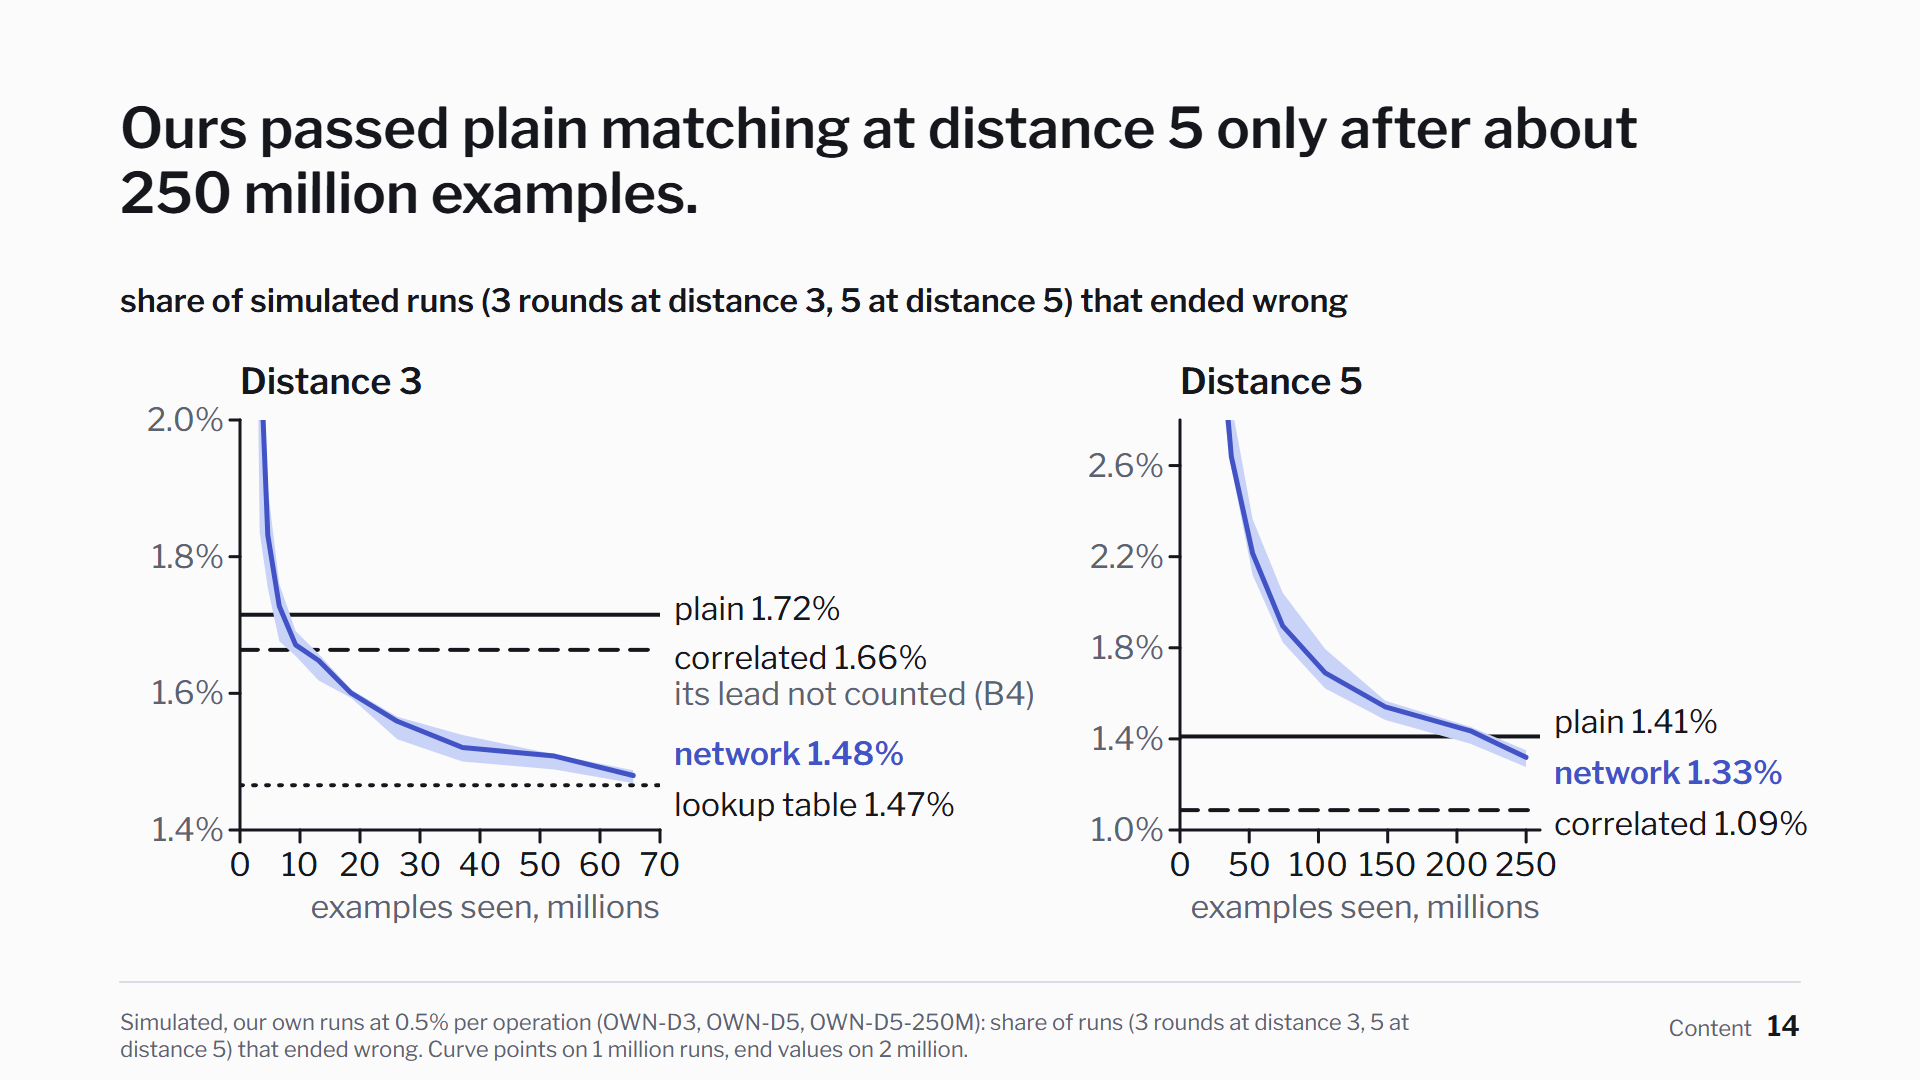
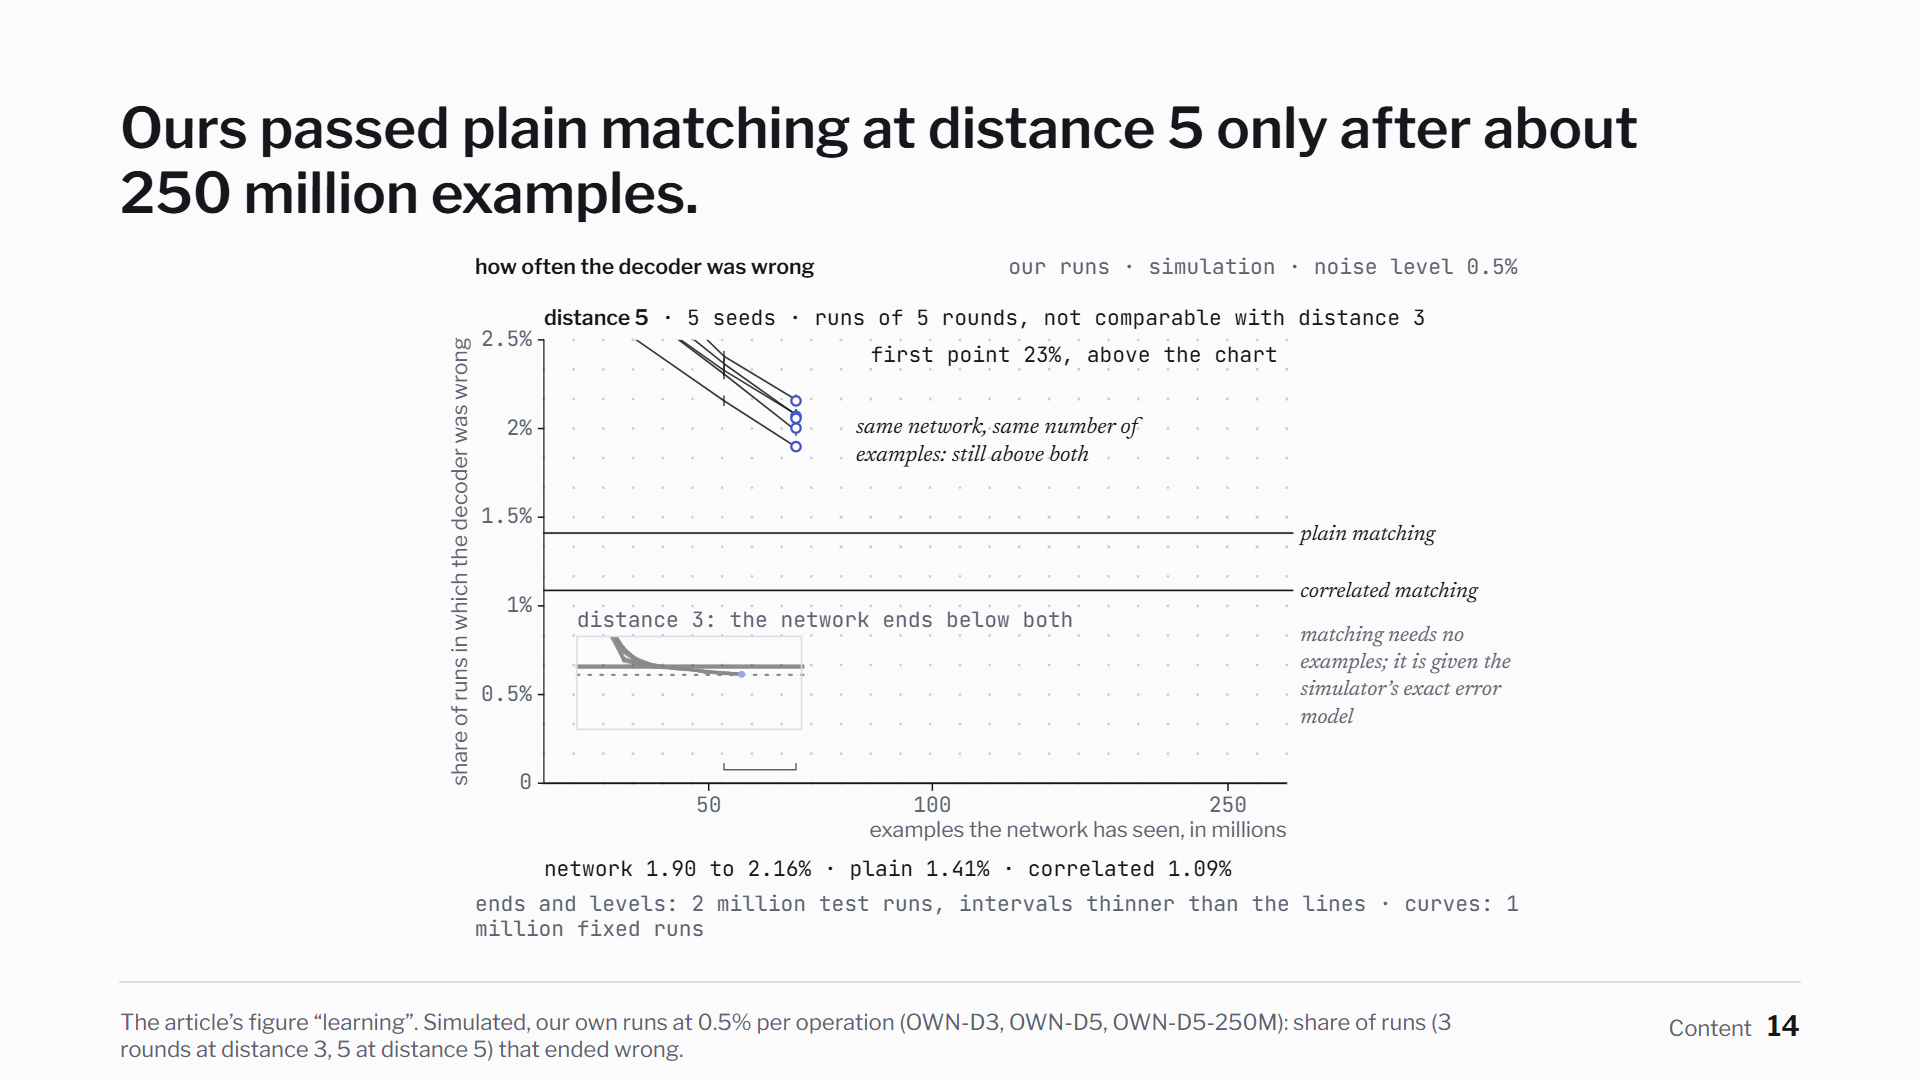
talks/quantum (WIP): the article's own figures on slides (kit articleFigure), Excalidraw strokes (rough.js, vendored); prototypes of slides 5 and 14

diff --git a/talks/quantum/slides/14-ours/slide.js b/talks/quantum/slides/14-ours/slide.js
@@ -1,74 +1,18 @@
-// Slide 14: our runs (learning.json), at a noise level of 0.5%. Two panels,
-// one per distance (their runs differ in length, so the rates are not set
-// against each other), each on a linear axis of examples in millions, so the
-// crossings sit where the room can see them. The seeds as a band from the
-// lowest to the highest seed with the median in accent; plain matching ink,
-// correlated matching dashed ink, the lookup table (distance 3 only) dotted.
-// Build 1: distance 3, and distance 5 after 66 million (axis already at 260
-// million); build 2 adds the run to about 250 million.
-import { C, L, R, svgOf, T, frame, ln, pth, h } from '../../kit.js';
-
-const pct = (v, dg = 2) => `${(v * 100).toFixed(dg)}%`;
+// Slide 14: our runs. The article's own `learning` figure at its steps 0, 1
+// and 2 (distance 3; distance 5 after 66 million; after about 250 million),
+// with one hand stroke per click at the number that click is about.
+import { C, svgOf, frame, articleFigure, inkLayer, PEN } from '../../kit.js';
+import * as learning from '../../../../articles/other-half/figures/learning.js';
 
 export default {
-  id: 'ours', n: 14, part: 'Content', builds: 2, speaker: 'C',
+  id: 'ours', n: 14, part: 'Content', builds: 3, speaker: 'B',
   title: 'Ours passed plain matching at distance 5 only after about 250 million examples.',
-  clicks: ['distance 3; distance 5 after 66 million', 'distance 5, about 250 million'],
+  clicks: ['distance 3', 'distance 5 after 66 million', 'distance 5 after about 250 million'],
   draw(page, b, data) {
     const svg = svgOf(page);
-    const [p3, p66, p250] = data.learning.panels;
-    frame(svg, {
-      title: this.title, n: this.n, part: this.part,
-      source: 'Simulated, our own runs at 0.5% per operation (OWN-D3, OWN-D5, OWN-D5-250M): share of runs (3 rounds at distance 3, 5 at distance 5) that ended wrong. Curve points on 1 million runs, end values on 2 million.',
-    });
-    T(svg, L, 312, 'share of simulated runs (3 rounds at distance 3, 5 at distance 5) that ended wrong', { size: 32, weight: 600 });
-    const panel = (x0, x1, xmax, step, ylo, yhi, head) => {
-      const y0 = 420, y1 = 830;
-      const X = (n) => x0 + (n / xmax) * (x1 - x0);
-      const Y = (r) => y1 - ((r - ylo) / (yhi - ylo)) * (y1 - y0);
-      ln(svg, x0, y0, x0, y1); ln(svg, x0, y1, x1, y1);
-      T(svg, x0, y0 - 26, head, { size: 36, weight: 600 });
-      for (let v = 0; v <= xmax + 1; v += step) { ln(svg, X(v), y1, X(v), y1 + 12); T(svg, X(v), y1 + 46, String(v / 1e6), { size: 32, anchor: 'middle', fill: C.ink }); }
-      T(svg, x1, y1 + 88, 'examples seen, millions', { size: 32, anchor: 'end', fill: C.muted });
-      for (let r = ylo; r <= yhi + 1e-9; r += (yhi - ylo > 0.01 ? 0.004 : 0.002)) { ln(svg, x0 - 10, Y(r), x0, Y(r)); T(svg, x0 - 16, Y(r) + 11, pct(r, 1), { size: 32, anchor: 'end', fill: C.muted }); }
-      const clipId = `c${x0}`;
-      const cp = h('clipPath', { id: clipId }, svg); h('rect', { x: x0, y: y0, width: x1 - x0, height: y1 - y0 }, cp);
-      const gc = h('g', { 'clip-path': `url(#${clipId})` }, svg);
-      return { X, Y, gc, x0, x1, y0, y1 };
-    };
-    const level = (P, r, dash) => ln(P.gc, P.x0, P.Y(r), P.x1, P.Y(r), { stroke: C.ink, 'stroke-width': 4, 'stroke-dasharray': dash || null });
-    const band = (P, pd) => {
-      const xs = pd.curves[0].points.map((p) => p.training_shots);
-      const at = (i) => pd.curves.map((c) => c.points[i]?.rate).filter((v) => v != null).sort((a, z) => a - z);
-      const lo = xs.map((x, i) => [P.X(x), P.Y(at(i)[0])]), hi = xs.map((x, i) => [P.X(x), P.Y(at(i)[at(i).length - 1])]);
-      const med = xs.map((x, i) => { const v = at(i); return [P.X(x), P.Y(v[Math.floor(v.length / 2)])]; });
-      pth(P.gc, `M${hi.map((q) => q.join(' ')).join('L')}L${lo.reverse().map((q) => q.join(' ')).join('L')}Z`, { fill: C.field, stroke: 'none' });
-      pth(P.gc, `M${med.map((q) => q.join(' ')).join('L')}`, { stroke: C.accent, 'stroke-width': 5 });
-      return med[med.length - 1];
-    };
-    // each line named at its right end, outside the plot, so no label crosses a curve
-    const tag = (P, r, str, o = {}) => T(svg, P.x1 + 14, P.Y(r) + 11 + (o.dy || 0), str, { size: 32, ...o });
-    // left: distance 3, 0 to 70 million
-    const A = panel(L + 120, 660, 70e6, 10e6, 0.014, 0.020, 'Distance 3');
-    level(A, p3.levels.plain.rate); level(A, p3.levels.correlated.rate, '18 12'); level(A, p3.levels.table.rate, '3 10');
-    band(A, p3);
-    tag(A, p3.levels.plain.rate, `plain ${pct(p3.levels.plain.rate)}`, { dy: -6 });
-    tag(A, p3.levels.correlated.rate, `correlated ${pct(p3.levels.correlated.rate)}`, { dy: 8 });
-    tag(A, p3.levels.correlated.rate, 'its lead not counted (B4)', { dy: 44, fill: C.muted });
-    tag(A, p3.final_network.mean, `network ${pct(p3.final_network.mean)}`, { dy: -22, weight: 600, fill: C.accent });
-    tag(A, p3.levels.table.rate, `lookup table ${pct(p3.levels.table.rate)}`, { dy: 20 });
-    // right: distance 5, 0 to 260 million, fixed from the first build
-    const B = panel(1180, 1540, 260e6, 50e6, 0.010, 0.028, 'Distance 5');
-    level(B, p66.levels.plain.rate); level(B, p66.levels.correlated.rate, '18 12');
-    tag(B, p66.levels.plain.rate, `plain ${pct(p66.levels.plain.rate)}`, { dy: -14 });
-    tag(B, p66.levels.correlated.rate, `correlated ${pct(p66.levels.correlated.rate)}`, { dy: 14 });
-    if (b === 0) {
-      const [ex, ey] = band(B, p66);
-      T(svg, ex + 24, ey - 40, 'after 66 million:', { size: 32, weight: 600, fill: C.accent });
-      T(svg, ex + 24, ey, 'behind in all five seeds', { size: 32, weight: 600, fill: C.accent });
-    } else {
-      band(B, p250);
-      tag(B, p250.final_network.mean, `network ${pct(p250.final_network.mean)}`, { dy: 18, weight: 600, fill: C.accent });
-    }
+    frame(svg, { title: this.title, n: this.n, part: this.part, source: 'The article’s figure “learning”. Simulated, our own runs at 0.5% per operation (OWN-D3, OWN-D5, OWN-D5-250M): share of runs (3 rounds at distance 3, 5 at distance 5) that ended wrong.' });
+    articleFigure(page, learning, b, { x: 330, y: 250, w: 1320 }, data.learning, { textPx: 26 });
+    const ink = inkLayer(page);
+    if (b === 2) ['only after', 'about 250', 'million'].forEach((s, i) => ink.note(120, 560 + i * 46, s, { color: PEN.red, size: 38 }));
   },
 };

diff --git a/talks/quantum/kit.js b/talks/quantum/kit.js
@@ -127,3 +127,68 @@ export function backup(svg, s, o = {}) {
   }
   return y;
 }
+
+// ---------------------------------------------------------------------------
+// The article's own figures on a slide (his rule of 23 November: the deck's
+// visuals must be the article's, which he approved). A figure module from
+// articles/other-half/figures is mounted into a box on the page and set to
+// the end of one of its steps; reduced motion, so nothing idles.
+// Returns the box and the scale from the figure's own units to the page, so
+// hand strokes can be laid over exact points of the figure.
+const FIG_CSS = { '--ink': C.ink, '--paper': C.paper, '--muted': C.muted, '--hairline': C.hair, '--accent': C.accent, '--field': C.field };
+export function articleFigure(page, mod, step, box, data, o = {}) {
+  const layout = o.layout || 'wide';
+  // Mounted at a narrow width and scaled up: the figure's own lettering floor
+  // (lib/fig.js, 11.5 px on screen, 9 on paper) then lands at about 32 px on
+  // the slide, the deck's floor, while the drawing keeps the article's look.
+  const paper = document.documentElement.classList.contains('is-print');
+  const k = (o.textPx || 32) / (paper ? 9 : 11.5);
+  const el = document.createElement('div');
+  el.className = 'article-figure';
+  Object.assign(el.style, { position: 'absolute', left: `${box.x}px`, top: `${box.y}px`, width: `${box.w / k}px`, transform: `scale(${k})`, transformOrigin: '0 0' });
+  page.appendChild(el);
+  const h = mod.default(el, { layout, print: false, reduced: true, data, css: (n) => FIG_CSS[n] || '', where: o.where || 'scene' });
+  if (h && h.set) h.set(step, 1);
+  const vb = el.querySelector('svg').viewBox.baseVal;
+  // fit the height too: a tall figure is scaled down (its lettering with it)
+  const maxH = o.maxH || 960 - box.y, fullH = box.w * (vb.height / vb.width);
+  if (fullH > maxH) {
+    const f = maxH / fullH, w2 = box.w * f;
+    el.style.transform = `scale(${k * f})`;
+    el.style.left = `${box.x + (box.w - w2) / 2}px`;
+    box = { ...box, x: box.x + (box.w - w2) / 2, w: w2 };
+  }
+  return { el, k: box.w / vb.width, x: box.x, y: box.y, h: box.w * (vb.height / vb.width), at: (fx, fy) => [box.x + fx * (box.w / vb.width), box.y + fy * (box.w / vb.width)] };
+}
+
+// ---------------------------------------------------------------------------
+// Hand strokes, as Excalidraw draws them (rough.js, the library Excalidraw
+// uses): an ink layer above everything else on the page. Colours from
+// Excalidraw's own stroke palette where a mark needs one.
+import rough from '../../lib/vendor/rough.esm.js';
+export const PEN = { ink: '#1e1e1e', red: '#e03131', green: '#2f9e44', blue: '#1971c2', orange: '#f08c00' };
+export function inkLayer(page) {
+  const svg = h('svg', { viewBox: '0 0 1920 1080', width: 1920, height: 1080, class: 'ink' });
+  Object.assign(svg.style, { position: 'absolute', left: 0, top: 0, pointerEvents: 'none' });
+  page.appendChild(svg);
+  const rc = rough.svg(svg);
+  const base = (o) => ({ roughness: 1.6, bowing: 1.2, strokeWidth: 3, stroke: PEN.ink, seed: o.seed || 7, ...o });
+  const api = {
+    svg,
+    line: (x1, y1, x2, y2, o = {}) => svg.appendChild(rc.line(x1, y1, x2, y2, base(o))),
+    curve: (pts, o = {}) => svg.appendChild(rc.curve(pts, base(o))),
+    ellipse: (cx, cy, w, hh, o = {}) => svg.appendChild(rc.ellipse(cx, cy, w, hh, base(o))),
+    rect: (x, y, w, hh, o = {}) => svg.appendChild(rc.rectangle(x, y, w, hh, base(o))),
+    // an arrow: a curved shaft through a middle point and an open two-stroke head
+    arrow(pts, o = {}) {
+      const shaft = pts.length > 2 ? rc.curve(pts, base(o)) : rc.line(pts[0][0], pts[0][1], pts[1][0], pts[1][1], base(o));
+      svg.appendChild(shaft);
+      const [ax, ay] = pts[pts.length - 2], [bx, by] = pts[pts.length - 1];
+      const a = Math.atan2(by - ay, bx - ax), L0 = o.head || 30, sp = 0.45;
+      [a + Math.PI - sp, a + Math.PI + sp].forEach((t, i) => svg.appendChild(rc.line(bx, by, bx + L0 * Math.cos(t), by + L0 * Math.sin(t), base({ ...o, seed: (o.seed || 7) + i + 1 }))));
+    },
+    // a handwritten note in Virgil, Excalidraw's own face
+    note: (x, y, s, o = {}) => T(svg, x, y, s, { family: 'virgil', size: 34, fill: o.color || PEN.ink, ...o }),
+  };
+  return api;
+}

diff --git a/talks/quantum/slides/05-checks/slide.js b/talks/quantum/slides/05-checks/slide.js
@@ -1,7 +1,8 @@
-// Slide 5: what a check reports. The smallest grid (lattice.json) at slide
-// size; one flip fires the two flip-checks beside it; a line of two fires only
-// its upper end, the lower end meets the edge (lattice.json "walk").
-import { C, svgOf, T, frame, slideGrid, errMark, rc, dot, h } from '../../kit.js';
+// Slide 5: what a check reports. The article's own `lattice` figure (the
+// version he approved), at its steps 0, 1 and 2, with hand strokes on top
+// that point at what each click adds.
+import { C, L, svgOf, T, frame, articleFigure, inkLayer, PEN } from '../../kit.js';
+import * as lattice from '../../../../articles/other-half/figures/lattice.js';
 
 export default {
   id: 'checks', n: 5, part: 'Preliminaries', builds: 3, speaker: 'A',
@@ -9,36 +10,15 @@ export default {
   clicks: ['the grid and its two kinds of check', 'one flip: two checks fire', 'a line of two: only its end fires'],
   draw(page, b, data) {
     const svg = svgOf(page);
-    const d = data.lattice;
-    frame(svg, {
-      title: this.title, n: this.n, part: this.part,
-      source: 'Distance 3, one round, checks assumed right. Constructed by us (articles/other-half/data/lattice.json).',
-    });
-    const pitch = 150, cx = 560, cy = 630;
-    const G = slideGrid(svg, { checks: d.checks, d: d.distance, cx, cy, pitch, qr: 30 });
-    const step = b === 0 ? null : d.walk[b - 1];
-    if (step) {
-      step.fired.forEach((id) => G.tiles[id].setFired(1));
-      Object.entries(step.errors).forEach(([q, letter]) => { const [x, y] = G.pos(Number(q)); errMark(G.gE, x, y, 30, letter); });
-    }
-    // the key, once, to the right
-    const kx = 1060;
-    const sw = (y, flips) => h('rect', { x: kx, y: y - 34, width: 52, height: 52, fill: flips ? C.ink : 'none', 'fill-opacity': flips ? 0.16 : null, stroke: flips ? C.ink : C.muted, 'stroke-width': 3 }, svg);
-    sw(360, true); T(svg, kx + 76, 360, 'tinted: asks about flips', { size: 32 });
-    sw(440, false); T(svg, kx + 76, 440, 'open: asks about phase errors', { size: 32 });
-    rc(svg, kx, 486, 52, 52, { fill: C.field, stroke: C.accent }); dot(svg, kx + 26, 512, 13, { fill: C.accent });
-    T(svg, kx + 76, 520, 'fired (large blue dot): the answer changed', { size: 32, weight: 600, fill: C.accent });
-    T(svg, kx, 610, 'X a flip, Z a phase error, Y both', { size: 32 });
-    if (b === 1) {
-      T(svg, kx, 720, 'One flip in the middle:', { size: 36, weight: 600 });
-      T(svg, kx, 766, 'the two flip-checks beside it fire.', { size: 32 });
-      T(svg, kx, 806, 'The flip itself is never seen.', { size: 32 });
-    }
-    if (b === 2) {
-      T(svg, kx, 720, 'A line of two flips:', { size: 36, weight: 600 });
-      T(svg, kx, 766, 'the check between them sees two, an even', { size: 32 });
-      T(svg, kx, 806, 'number, and stays quiet. Only the upper', { size: 32 });
-      T(svg, kx, 846, 'end fires; the lower end meets the edge.', { size: 32 });
-    }
+    frame(svg, { title: this.title, n: this.n, part: this.part, source: 'The article’s figure “lattice”, steps 1 to 3. Distance 3, one round, checks assumed right. Constructed by us (lattice.json).' });
+    articleFigure(page, lattice, b, { x: 150, y: 250, w: 1180 }, data.lattice, { textPx: 26 });
+    const ink = inkLayer(page);
+    const say = [
+      ['tinted tiles ask', 'about flips, open ones', 'about phase errors'],
+      ['one flip:', 'the two checks', 'beside it fire'],
+      ['two flips in a line:', 'only the upper end fires;', 'the lower end meets the edge'],
+    ][b];
+    say.forEach((s, i) => ink.note(1400, 420 + i * 48, s, { size: 36 }));
+    ink.arrow([[1390, 470], [1340, 520], [1250, 560]], { seed: 3 + b, stroke: PEN.red, strokeWidth: 3.5 });
   },
 };

diff --git a/talks/quantum/deck.css b/talks/quantum/deck.css
@@ -7,7 +7,9 @@
 html, body { margin: 0; background: #2A2C31; height: 100%; }
 #deck { position: fixed; inset: 0; overflow: hidden; }
 .page { width: 1920px; height: 1080px; background: var(--paper); color: var(--ink); position: absolute; left: 50%; top: 50%; transform-origin: center center; }
-.page svg { display: block; width: 1920px; height: 1080px; }
+.page > svg { display: block; width: 1920px; height: 1080px; }
+.page > svg.ink { position: absolute; left: 0; top: 0; pointer-events: none; }
+.page { overflow: hidden; }
 #notes { position: fixed; left: 0; right: 0; bottom: 0; max-height: 34vh; overflow: auto; background: #FBFBFC; color: #15171C;
   font: 18px/1.5 'Libre Franklin', Arial, sans-serif; padding: 16px 28px; box-shadow: 0 -1px 0 #DADDE3; }
 #notes b { font-weight: 600; }
